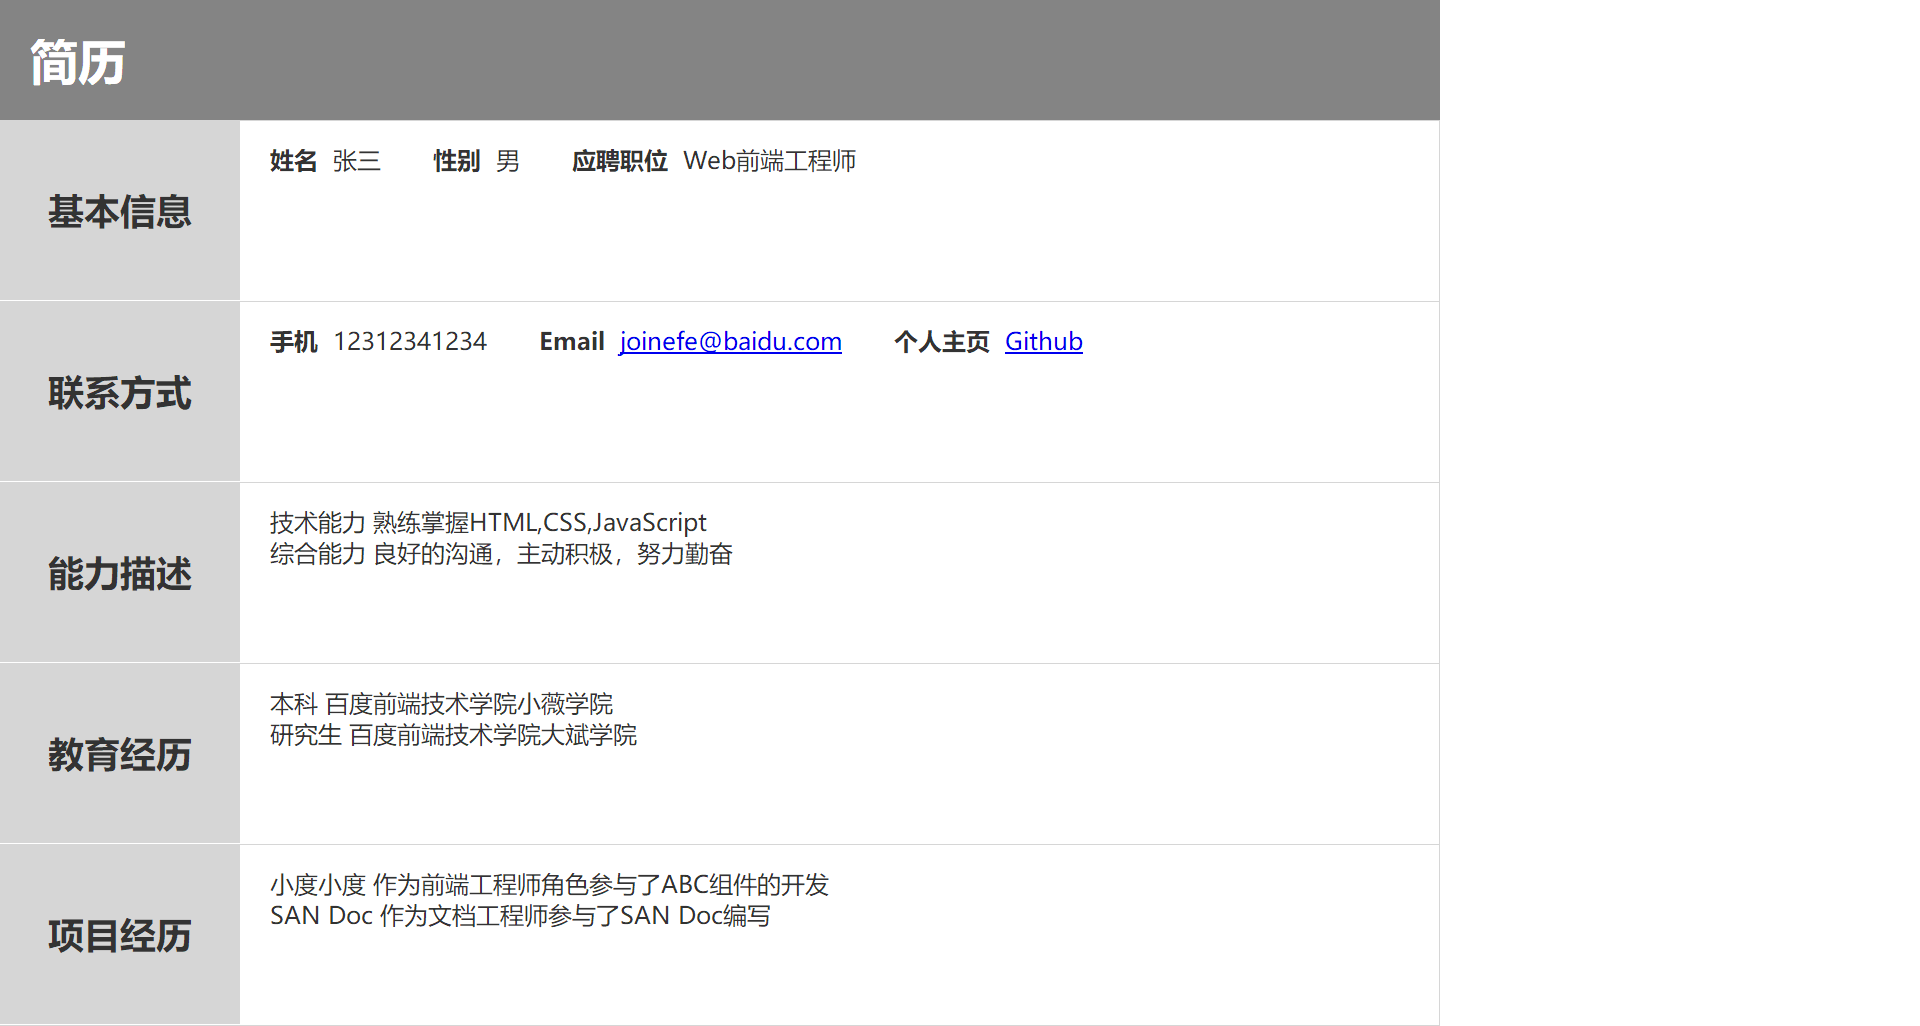
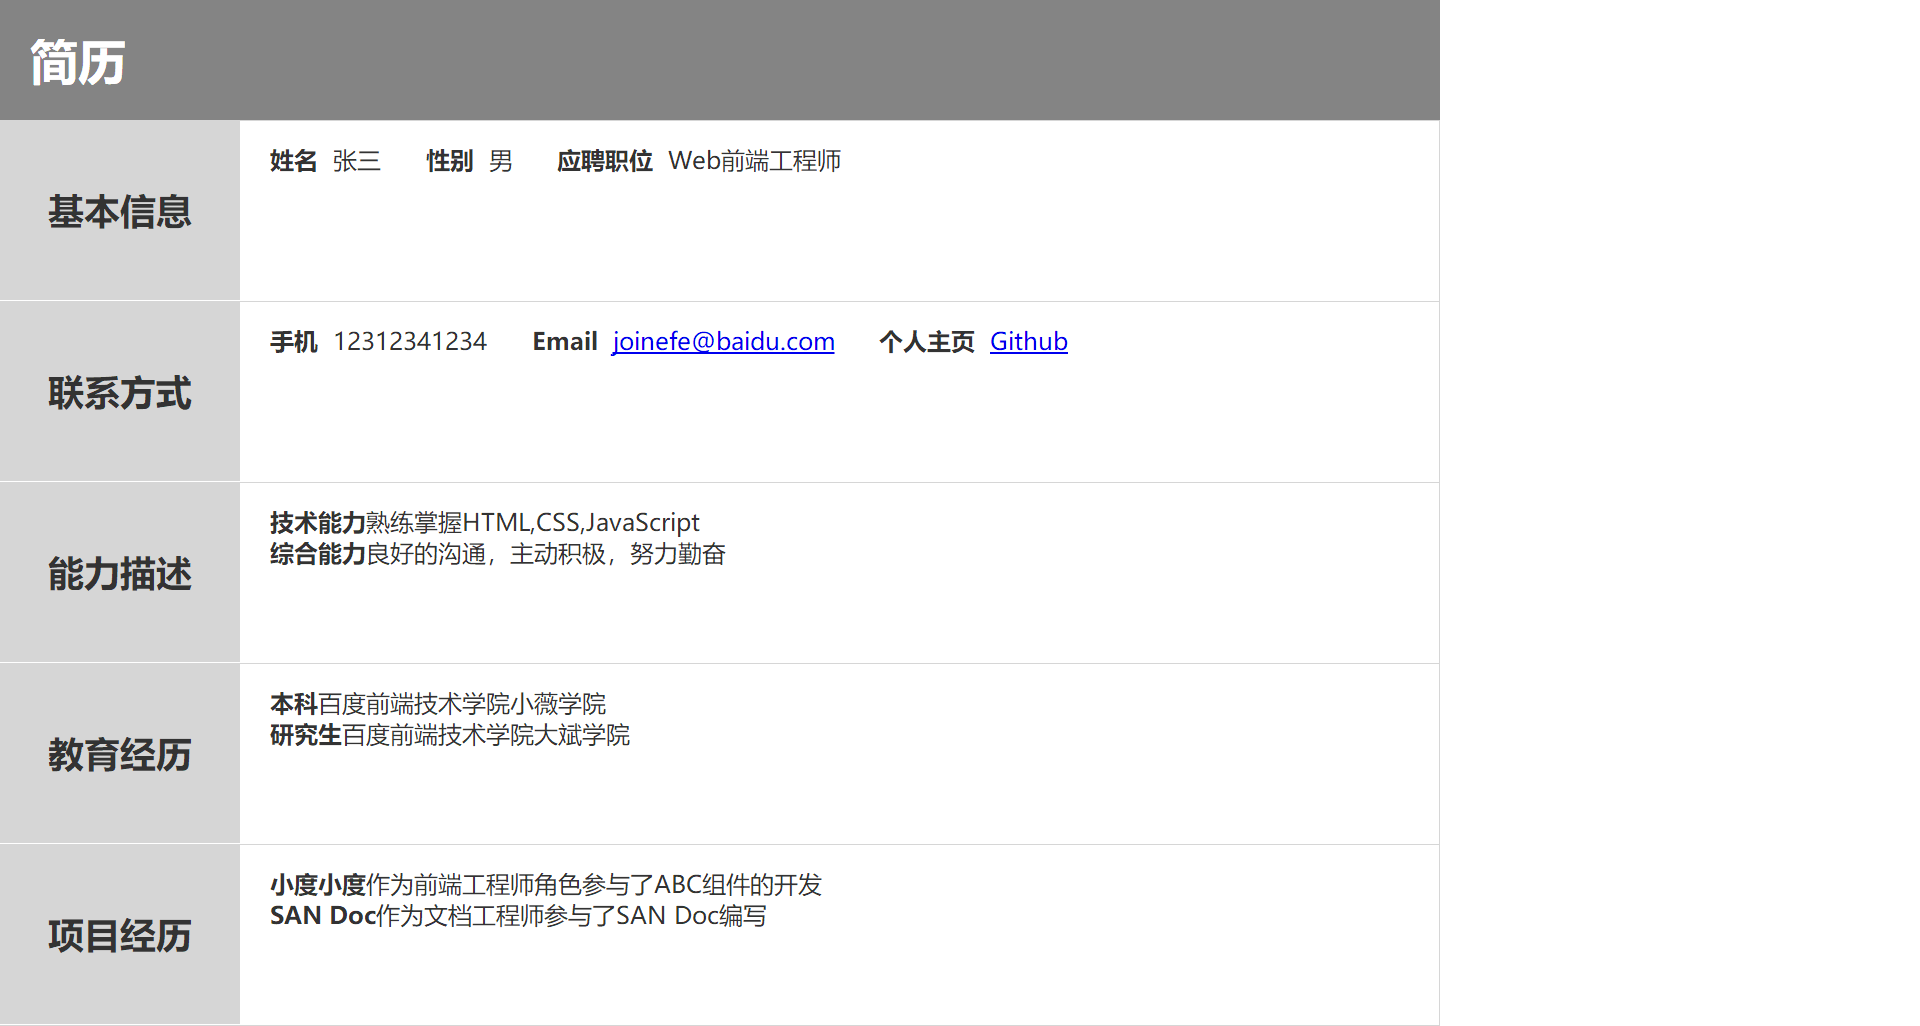
第五和第六天：三种简历
做了一些修改

diff --git a/三种简历/resume.html b/三种简历/resume.html
@@ -3,15 +3,15 @@
 <head>
     <meta charset="UTF-8">
     <title>简历</title>
-    <!--<link rel="stylesheet" href="style_1.css" type="text/css">-->
+    <link rel="stylesheet" href="style_1.css" type="text/css">
     <!--<link rel="stylesheet" href="style_2.css" type="text/css">-->
-    <link rel="stylesheet" href="style_3.css" type="text/css">
+    <!--<link rel="stylesheet" href="style_3.css" type="text/css">-->
 </head>
 <body>
     <div id="header"><h1>简历</h1></div>
 
     <div id="content">
-    <div class="cont">
+    <div class="cont0">
         <h2>基本信息</h2>
         <div  class="cont1">
             <h4>姓名</h4><span>张三</span>
@@ -20,7 +20,7 @@
         </div>
     </div>
 
-    <div class="cont">
+    <div class="cont0">
         <h2>联系方式</h2>
         <div class="cont1">
             <h4>手机</h4><span>12312341234</span>
@@ -32,30 +32,24 @@
     <div class="cont">
         <h2>能力描述</h2>
         <div class="cont1">
-            <p>技术能力</p>
-            <p>熟练掌握HTML,CSS,JavaScript</p><br/>
-            <p>综合能力</p>
-            <p>良好的沟通，主动积极，努力勤奋</p>
+            <span>技术能力</span><p>熟练掌握HTML,CSS,JavaScript</p><br/>
+            <span>综合能力</span><p>良好的沟通，主动积极，努力勤奋</p>
         </div>
     </div>
 
     <div class="cont">
         <h2>教育经历</h2>
         <div class="cont1">
-            <p>本科</p>
-            <p>百度前端技术学院小薇学院</p><br/>
-            <p>研究生</p>
-            <p>百度前端技术学院大斌学院</p>
+            <span>本科</span><p>百度前端技术学院小薇学院</p><br/>
+            <span>研究生</span><p>百度前端技术学院大斌学院</p>
         </div>
     </div>
 
     <div class="cont">
         <h2>项目经历</h2>
         <div class="cont1">
-            <p>小度小度</p>
-            <p>作为前端工程师角色参与了ABC组件的开发</p><br/>
-            <p>SAN Doc</p>
-            <p>作为文档工程师参与了SAN Doc编写</p>
+            <span>小度小度</span><p>作为前端工程师角色参与了ABC组件的开发</p><br/>
+            <span>SAN Doc</span><p>作为文档工程师参与了SAN Doc编写</p>
         </div>
     </div>
     </div>

diff --git a/三种简历/style_3.css b/三种简历/style_3.css
@@ -7,15 +7,17 @@ body{
     color: #333333;
 }
 p{
-    margin: 0;
     display: inline-block;
 }
 h4{
     display: inline-block;
     padding-right: 10px;
 }
-span{
+.cont0 span{
     margin-right: 30px;
+}
+.cont span{
+    font-weight: bold;
 }
 #header{
     background-color: #848484;
@@ -30,7 +32,7 @@ span{
     border-bottom: 1px solid #D6D6D6;
     width: 959px;
 }
-.cont{
+.cont,.cont0{
     width: 960px;
     height: 120px;
     border-top: 1px solid #D6D6D6;

diff --git a/三种简历/style_2.css b/三种简历/style_2.css
@@ -2,15 +2,9 @@ body{
     font-family: 微软雅黑;
     color: #333333;
 }
-p{
-    margin: 0px;
-}
 h4{
     display: inline-block;
     padding-right: 10px;
-}
-span{
-    margin-right: 30px;
 }
 #header{
     float: left;
@@ -24,4 +18,13 @@ span{
 }
 #cont{
     float: left;
+}
+.cont0 span{
+    margin-right: 30px;
+}
+.cont span{
+    font-weight: bold;
+}
+p{
+    margin: 0;
 }

diff --git a/三种简历/style_1.css b/三种简历/style_1.css
@@ -2,13 +2,16 @@ body{
     font-family: 微软雅黑;
     color: #333333;
 }
-p{
-    margin: 0px;
-}
 h4{
     display: inline-block;
     padding-right: 10px;
 }
-span{
+.cont0 span{
     margin-right: 30px;
+}
+.cont span{
+    font-weight: bold;
+}
+p{
+    margin: 0;
 }
